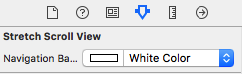
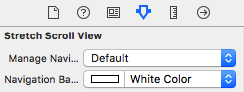
- 2.0.0 - No need to zeroing contentInset anymore - No need to change navigation bar alpha if it isn't transparent - Removed unused code - Added ability to manage navigation bar transparency automatically

diff --git a/StretchScrollView/Classes/StretchScrollView.swift b/StretchScrollView/Classes/StretchScrollView.swift
@@ -18,6 +18,7 @@ private let FadeOutOffset: CGFloat = 60
 private let NavigationFadeInFinishOffset: CGFloat = 60
 private let StatusBarHeight: CGFloat = 20
 private let NavigationBarHeight: CGFloat = 44
+private let TopBarsHeight: CGFloat = StatusBarHeight + NavigationBarHeight
 
 //-----------------------------------------------------------------------------
 // MARK: - Class Implementation
@@ -33,6 +34,11 @@ public class StretchScrollView: ScrollView {
     // MARK: - @IBInspectable
     //-----------------------------------------------------------------------------
     
+    /// StretchScrollView will manage navigation bar transparency by itself.
+    /// You could disable this option to manage it by yourself or to disable navigation bar animations.
+    @IBInspectable var manageNavigationBarTransparency: Bool = true
+    
+    /// In case of transparent navigation bar you may specify background color that will appear when you scroll up.
     @IBInspectable var navigationBackgroundColor: UIColor = .clear
     
     //-----------------------------------------------------------------------------
@@ -56,15 +62,6 @@ public class StretchScrollView: ScrollView {
     private var cstrImageViewTop: NSLayoutConstraint?
     private var cstrImageViewHeight: NSLayoutConstraint?
     private var defaultHeight: CGFloat = 0
-    private var ignoreStatusBarHeight: Bool = false
-    
-    private var topBarsHeight: CGFloat {
-        return ignoreStatusBarHeight ? NavigationBarHeight : StatusBarHeight + NavigationBarHeight
-    }
-    
-    private var fadeOutOffset: CGFloat {
-        return ignoreStatusBarHeight ? FadeOutOffset - StatusBarHeight : FadeOutOffset
-    }
     
     //-----------------------------------------------------------------------------
     // MARK: - Initialization and Setup
@@ -84,7 +81,6 @@ public class StretchScrollView: ScrollView {
     
     private func setupProperties() {
         delegate = self
-        contentInset = .zero
         
         fadeViews?.forEach({ _fadeViews.add($0) })
         fadeViews = nil
@@ -96,17 +92,16 @@ public class StretchScrollView: ScrollView {
     }
     
     private func setupNavigationBar() {
+        if manageNavigationBarTransparency {
+            navigationBar?.saveTransparencyState(replace: false)
+            navigationBar?.makeTransparent()
+            viewController?.automaticallyAdjustsScrollViewInsets = false
+        }
+        
         navigationBarBackgroundView.isUserInteractionEnabled = false
         navigationBarBackgroundView.backgroundColor = navigationBackgroundColor
-        navigationBarBackgroundView.frame = CGRect(x: 0, y: ignoreStatusBarHeight ? 0 : -StatusBarHeight, width: UIScreen.main.bounds.width, height: topBarsHeight)
+        navigationBarBackgroundView.frame = CGRect(x: 0, y: -StatusBarHeight, width: UIScreen.main.bounds.width, height: TopBarsHeight)
         navigationBar?.insertSubview(navigationBarBackgroundView, at: 0)
-        
-        // Ignore status bar height?
-        self.navigationBar?.subviews.forEach {
-            if let imgViewBackground = $0 as? UIImageView, imgViewBackground.bounds.size.height == NavigationBarHeight {
-                ignoreStatusBarHeight = true
-            }
-        }
     }
     
     private func setupImageViewConstraints() {
@@ -158,11 +153,16 @@ public class StretchScrollView: ScrollView {
         let compensatedContentOffsetY = contentOffset.y + contentInset.top
         
         // Fade views and navigation bar
-        var newAlpha = (fadeOutOffset + compensatedContentOffsetY) / fadeOutOffset
+        var newAlpha = (FadeOutOffset + compensatedContentOffsetY) / FadeOutOffset
         newAlpha = max(0, newAlpha)
         newAlpha = min(1, newAlpha)
         _fadeViews.allObjects.forEach { $0.alpha = newAlpha }
-        navigationBar?.alpha = newAlpha
+        
+        // Navigation bar alpha won't be changed if content inset top is not zero or navigation bar is not translucent.
+        let shouldChangeNavigationBarAlpha = contentInset.top == 0 && navigationBar?.isTranslucent == true
+        if shouldChangeNavigationBarAlpha {
+            navigationBar?.alpha = newAlpha
+        }
         
         // Navigation bar background alpha
         let fadeInFinishDistance = NavigationFadeInFinishOffset
@@ -199,9 +199,18 @@ public class StretchScrollView: ScrollView {
     
     @objc private func onViewWillDisappear(_ notification: Notification) {
         navigationBarBackgroundView.alpha = 0
+        
+        if manageNavigationBarTransparency {
+            navigationBar?.restoreTransparencyState()
+        }
     }
     
     @objc private func onViewWillAppear(_ notification: Notification) {
+        if manageNavigationBarTransparency {
+            navigationBar?.saveTransparencyState(replace: false)
+            navigationBar?.makeTransparent()
+        }
+        
         configureVisibility()
     }
 }

diff --git a/StretchScrollView/Classes/UINavigationBar+StretchScrollView.swift b/StretchScrollView/Classes/UINavigationBar+StretchScrollView.swift
@@ -1,0 +1,50 @@
+//
+//  UINavigationBar+StretchScrollView.swift
+//  StretchScrollView
+//
+//  Created by Anton Plebanovich on 8/7/17.
+//  Copyright © 2017 Anton Plebanovich. All rights reserved.
+//
+
+import UIKit
+
+
+private var transparencyStateAssociationKey = 0
+
+
+extension UINavigationBar {
+    struct TransparencyState {
+        let isTranslucent: Bool
+        let backgroundImage: UIImage?
+        let shadowImage: UIImage?
+    }
+    
+    private var transparencyState: TransparencyState? {
+        get {
+            return objc_getAssociatedObject(self, &transparencyStateAssociationKey) as? TransparencyState
+        }
+        set {
+            objc_setAssociatedObject(self, &transparencyStateAssociationKey, newValue, .OBJC_ASSOCIATION_RETAIN_NONATOMIC)
+        }
+    }
+    
+    func saveTransparencyState(replace: Bool) {
+        guard replace || transparencyState == nil else { return }
+        
+        transparencyState = TransparencyState(isTranslucent: isTranslucent, backgroundImage: backgroundImage(for: .default), shadowImage: shadowImage)
+    }
+    
+    func restoreTransparencyState() {
+        guard let transparencyState = transparencyState else { return }
+        
+        isTranslucent = transparencyState.isTranslucent
+        setBackgroundImage(transparencyState.backgroundImage, for: .default)
+        shadowImage = transparencyState.shadowImage
+    }
+    
+    func makeTransparent() {
+        isTranslucent = true
+        setBackgroundImage(UIImage(), for: .default)
+        shadowImage = UIImage()
+    }
+}

diff --git a/Example/StretchScrollView/ViewController.swift b/Example/StretchScrollView/ViewController.swift
@@ -7,30 +7,6 @@
 //
 
 import UIKit
-import APExtensions
-import StretchScrollView
 
 
-class ViewController: UIViewController {
-    
-    //-----------------------------------------------------------------------------
-    // MARK: - @IBOutlets
-    //-----------------------------------------------------------------------------
-    
-    @IBOutlet private weak var scrollView: StretchScrollView!
-    
-    //-----------------------------------------------------------------------------
-    // MARK: - UIViewController Methods
-    //-----------------------------------------------------------------------------
-    
-    override func viewDidLoad() {
-        super.viewDidLoad()
-        
-        // Making navigation bar transparent so it's background can be animated
-        navigationController?.navigationBar.setTransparent(true)
-        
-        // Because navigation bar is transparent make image stick to top
-        // You could also configure this option in storyboard, just don't forget
-        automaticallyAdjustsScrollViewInsets = false
-    }
-}
+class ViewController: UIViewController {}

diff --git a/README.md b/README.md
@@ -37,9 +37,16 @@ Set needed outlets and options.
 <img src="Example/StretchScrollView/outlets.png"/>
 <img src="Example/StretchScrollView/options.png"/>
 
-You are done!
+```swift
+/// StretchScrollView will manage navigation bar transparency by itself.
+/// You could disable this option to manage it by yourself or to disable navigation bar animations.
+@IBInspectable var manageNavigationBarTransparency: Bool = true
 
-Please note that you have to make your navigation bar fully transparent if you want to change it's background color. See example project for more details.
+/// In case of transparent navigation bar you may specify background color that will appear when you scroll up.
+@IBInspectable var navigationBackgroundColor: UIColor = .clear
+```
+
+You are done! See example project for more details.
 
 ## Contributions
 

diff --git a/CHANGELOG.md b/CHANGELOG.md
@@ -2,6 +2,13 @@
 All notable changes to this project will be documented in this file.
 `StretchScrollView` adheres to [Semantic Versioning](http://semver.org/).
 
+## [2.0.0](https://github.com/APUtils/StretchScrollView/releases/tag/2.0.0)
+Released on 08/07/2017.
+
+#### Added
+- Manage navigation bar transparency automatically
+  - Added by [Anton Plebanovich](https://github.com/anton-plebanovich).
+
 ## [1.2.0](https://github.com/APUtils/StretchScrollView/releases/tag/1.2.0)
 Released on 08/04/2017.
 
